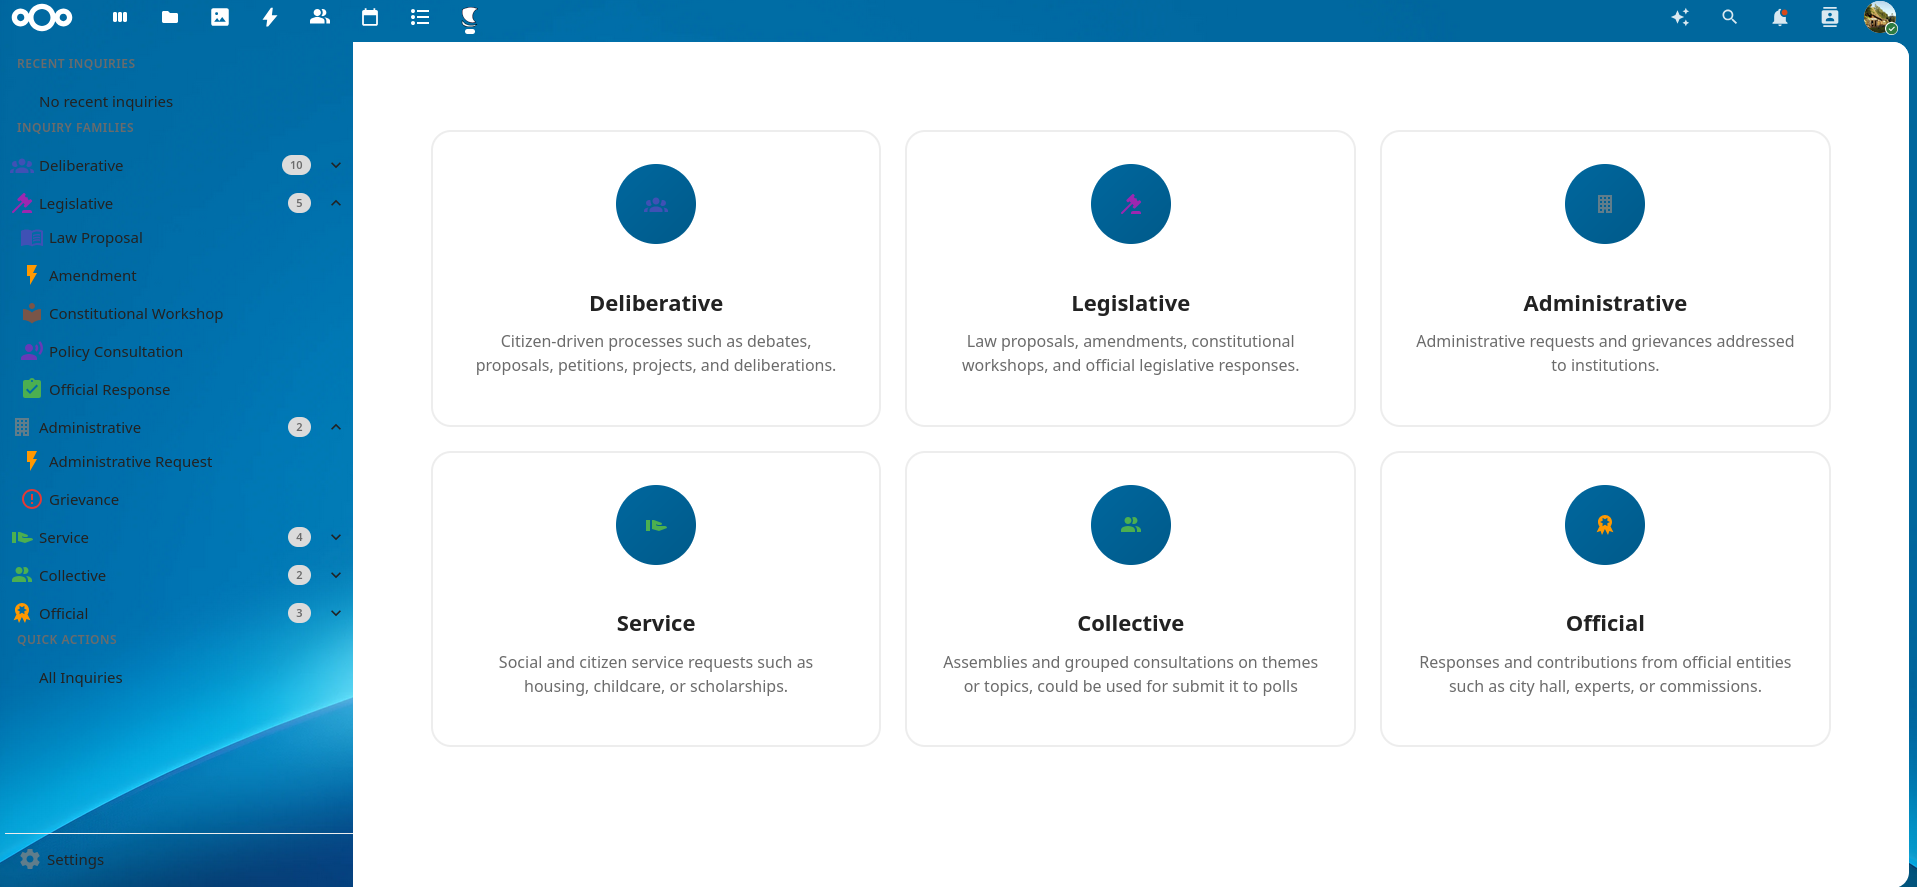
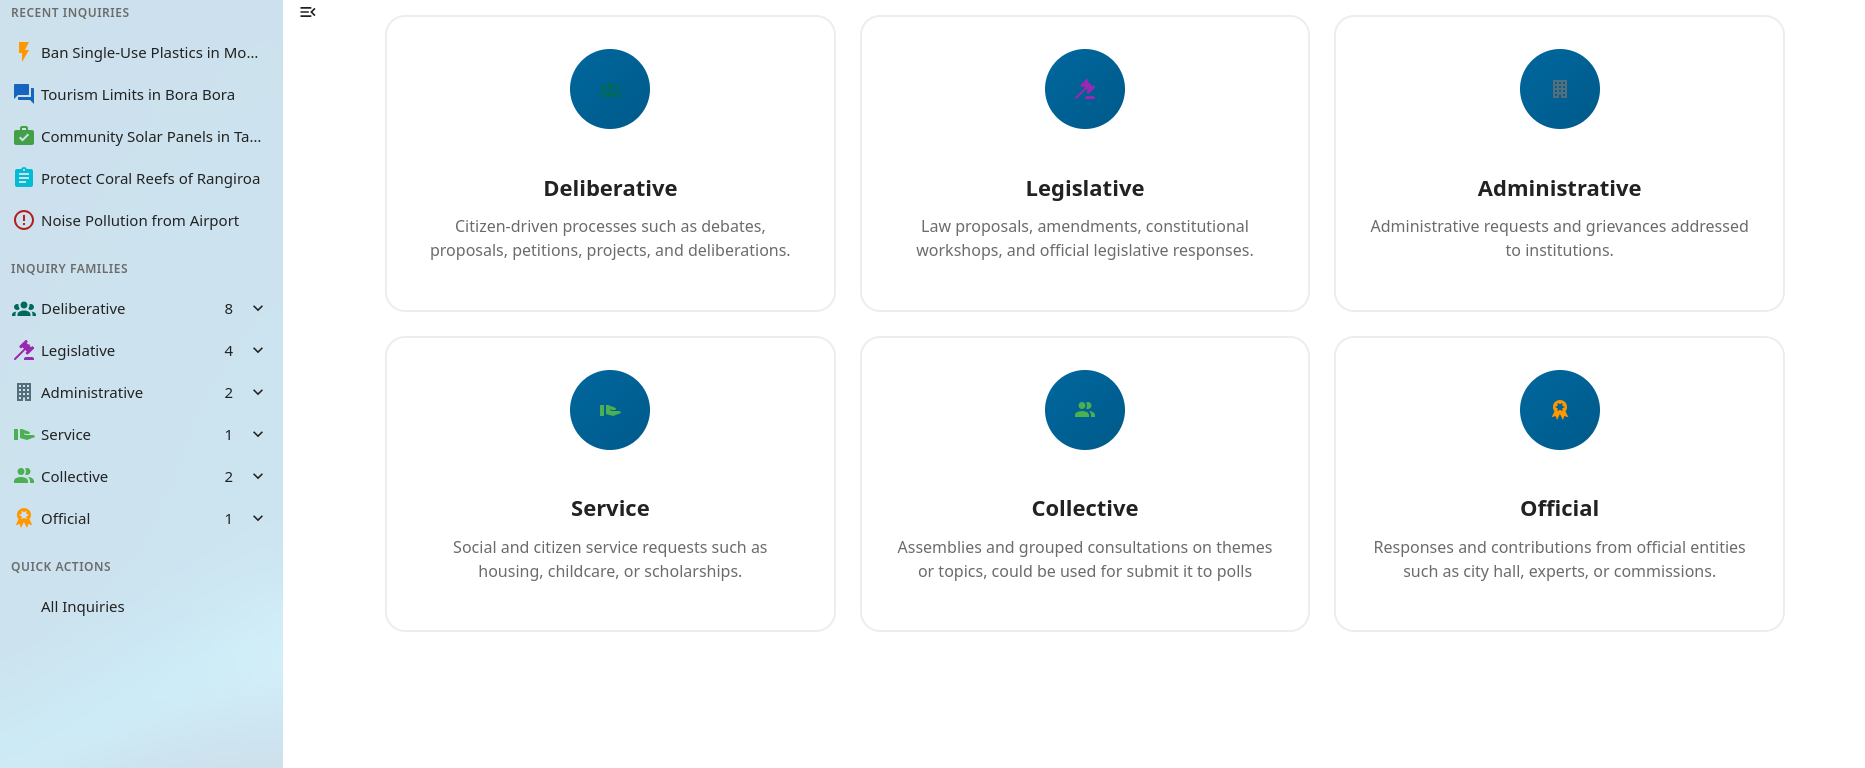
Night update

diff --git a/README.md b/README.md
@@ -14,30 +14,37 @@ It allows communities and organizations to collaborate on **proposals, debates, 
 
 ---
 
-## 🌟 Features in 1.5.0
+## 🌟 New Features in 1.5.0
 
-- 🔍 **Improved Search Bar** – Quickly find proposals, debates, or projects  
-- 📝 **Create Contributions**  
-  - 📌 **Proposals** – Suggest ideas or improvements  
-  - 💬 **Debates** – Discuss and exchange opinions  
-  - 📃 **Petitions** – Collect support for initiatives  
-  - 🏗 **Projects** – Manage tasks or initiatives collaboratively  
-- 💬 **Comments & Suggestions** – Shape ideas together  
-- 🏷 **Sort by Category & Location** – Keep content organized  
-- 🔒 **Private & Secure** – All data stays on your Nextcloud server
+- 🧱 **Architecture Database** – New database design for better scalability and structure  
+- 🎨 **New UX Landing Page** – A more modern and user-friendly entry point  
+- 🆔 **Cover ID for Inquiries** – Visual cover and unique identifiers  
+- 🧩 **Linked Families** – Inquiries are now linked to families; create your own families  
+- ⚙ **Custom Inquiry Types** – Define reply formats and transformation possibilities  
+- 🧑⚖ **Real Moderation Mode** – Fully functional moderation (can be deactivated)  
+- 🤖 **AI Integration Fix & Tests** – AI suggestions and analysis reworked  
 
 ---
 
-## 🚀 Why Agora?
+## ✨ Features
 
-Agora encourages **participation and collaboration** in small teams, community groups, or local initiatives.  
-It simplifies decision-making, keeps discussions structured, and ensures **every voice counts**.
+- 💬 Comments and discussions  
+- 👍 Supports (likes/upvotes)  
+- 🧾 Multiple inquiry types (proposals, debates, petitions, projects)  
+- 📂 Categorization and filtering by location/family  
+- 🔒 Secure and private – all data stays on your Nextcloud server  
 
 ---
 
-## 🐞 Known Issues
+## 🧭 Roadmap
 
-- Public share not fully tested  
+- ⚙ Integrate miscellaneous settings  
+- 🔗 Link with other Nextcloud apps (Forms, Polls, Deck, Cospend…)  
+- 🗣 Real debate features (structured replies, multi-thread discussions)  
+- 📜 Project law reading with article-level comments and supports  
+- 🏛 Collectives → Polls for consultation or referendum  
+- 🧮 Quorums and workflow automation  
+- 🧰 Better permission control and moderation tools  
 
 ---
 
@@ -83,10 +90,9 @@ occ app:enable agora
 
 ## 🖼 Screenshots
 
-| Edit Inquiry | Manage Category | Moderation Status | View as Non-owner | Grid View | List View || Family | Creation | Inquiry Type |
-| :----------: | :-------------: | :---------------: | :---------------: | :-------: | :-------: |:-------: | :-------: |
-| :----------: | :-------------: | :---------------: | :---------------: | :-------: | :-------: |:-------: | :-------: |
-| ![Edit Inquiry](screenshots/Edit.png) | ![Category](screenshots/Category.png) | ![Moderation](screenshots/ModerationStatus.png) | ![View](screenshots/UserViewInquiry.png) | ![Grid](screenshots/GridView.png) | ![List](screenshots/ListView.png) | ![List](screenshots/Family.png) | ![List](screenshots/Creation.png) | ![List](screenshots/InquiryType.png) |
+| Edit Inquiry | Manage Category | Moderation Status | View as Non-owner | Grid View | List View | Family | Creation | Inquiry Type |
+| :----------: | :-------------: | :---------------: | :---------------: | :-------: | :-------: | :-------: | :-------: | :-------: |
+| ![Edit Inquiry](screenshots/Edit.png) | ![Category](screenshots/Category.png) | ![Moderation](screenshots/ModerationStatus.png) | ![View](screenshots/UserViewInquiry.png) | ![Grid](screenshots/GridView.png) | ![List](screenshots/ListView.png) | ![Family](screenshots/Family.png) | ![Creation](screenshots/Creation.png) | ![InquiryType](screenshots/InquiryType.png) |
 
 ---
 
@@ -108,12 +114,3 @@ occ app:enable agora
 ## 🤝 Contribution
 
 Please read our [Code of Conduct](https://vinimoz.com/community/code-of-conduct/) to ensure collaboration in a positive and respectful way.
-
----
-
-## 🏷 Changelog Highlights for 1.1.0
-
-- ✨ Improved **search bar** for fast filtering  
-- 📝 Minor UI improvements  
-- 🐞 Bug fixes: comments display, image handling in Tiptap
-

diff --git a/CHANGELOG.md b/CHANGELOG.md
@@ -4,8 +4,16 @@
 -->
 
 # Changelog
-
 All notable changes to this project will be documented in this file.
+# [1.5.0-rc1] - 2025-10-27
+- UPDATE: New database architecture
+- IMPROVEMENT:
+    - CoverId : Let u put an image for inquiry
+    - Moderation status :
+    - Possibility to create inquiries types and families types.
+    - New UX design.
+ 
+
 # [1.1.0] - 2025-10-02
 - UPDATE: Most of Nc style have been used ( NcButton, NcSelect,..)
 - FIX: insert image now working in tiptap,.
